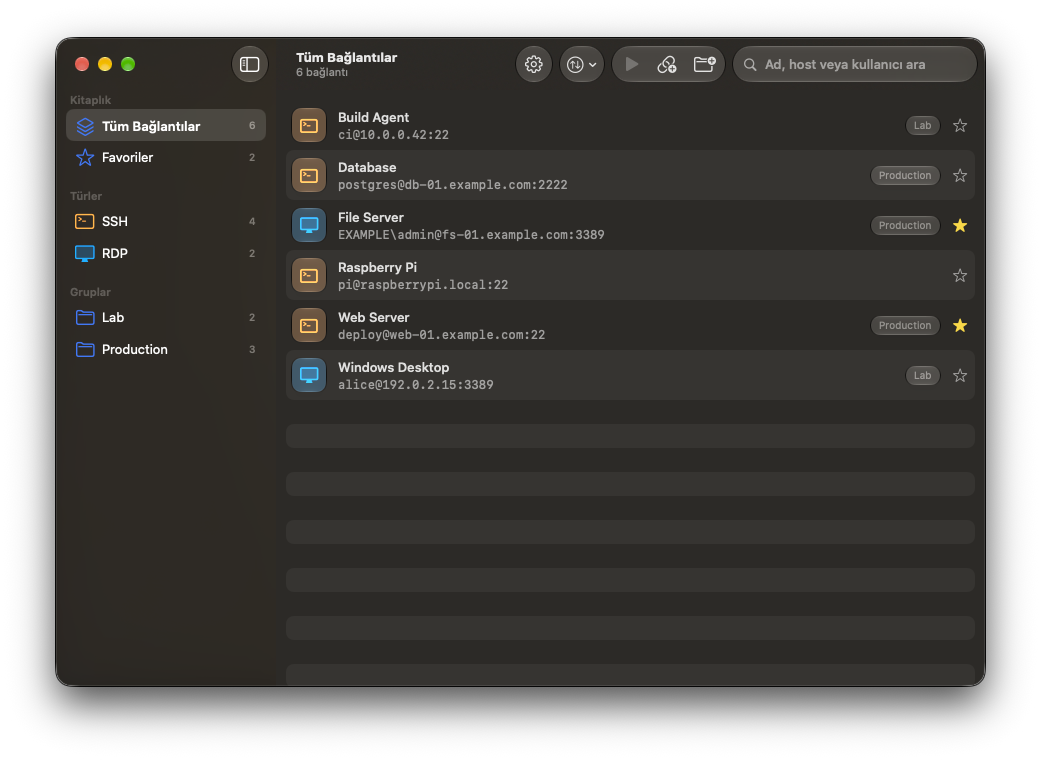
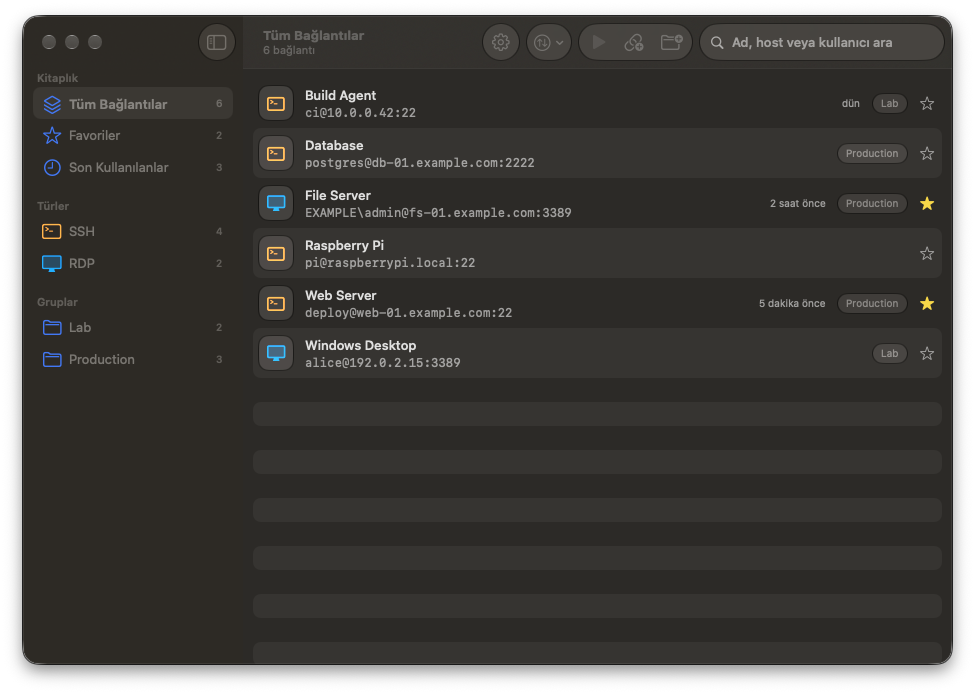
feat: add recent connections
- Connection.lastConnectedAt is set after each successful launch.
- New "Recent" sidebar item lists the 10 most recently opened
  connections, newest first.
- Rows show when the connection was last opened ("2 hours ago"),
  refreshed every minute, with the exact time as a tooltip.
- Settings gets a "Clear History…" button that forgets the times without
  deleting connections.
- README feature list and screenshots updated.

Changed region(s): [[0.0, 0.0, 0.9846, 0.9986]]

diff --git a/CoreRemoteTests/RecentTests.swift b/CoreRemoteTests/RecentTests.swift
@@ -1,0 +1,58 @@
+import Foundation
+import SwiftData
+import Testing
+@testable import CoreRemote
+
+@MainActor
+struct RecentTests {
+    private func makeContext() throws -> ModelContext {
+        let container = try ModelContainer(
+            for: Connection.self, ConnectionGroup.self,
+            configurations: ModelConfiguration(isStoredInMemoryOnly: true)
+        )
+        return ModelContext(container)
+    }
+
+    @Test func recentIsNewestFirstAndSkipsNeverOpened() {
+        let old = Connection(name: "Old", host: "a", type: .ssh, username: "u")
+        let new = Connection(name: "New", host: "b", type: .ssh, username: "u")
+        let never = Connection(name: "Never", host: "c", type: .rdp, username: "u")
+        old.lastConnectedAt = Date(timeIntervalSince1970: 100)
+        new.lastConnectedAt = Date(timeIntervalSince1970: 200)
+
+        #expect(SidebarItem.recent.filter([never, old, new]).map(\.name) == ["New", "Old"])
+    }
+
+    @Test func recentIsLimited() {
+        let connections = (0..<15).map { index in
+            let connection = Connection(name: "C\(index)", host: "h", type: .ssh, username: "u")
+            connection.lastConnectedAt = Date(timeIntervalSince1970: Double(index))
+            return connection
+        }
+        let recent = SidebarItem.recent.filter(connections)
+        #expect(recent.count == SidebarItem.recentLimit)
+        #expect(recent.first?.name == "C14")
+    }
+
+    @Test func otherItemsKeepOrder() {
+        let a = Connection(name: "A", host: "a", type: .ssh, username: "u", isFavorite: true)
+        let b = Connection(name: "B", host: "b", type: .rdp, username: "u")
+        #expect(SidebarItem.favorites.filter([a, b]).map(\.name) == ["A"])
+        #expect(SidebarItem.type(.rdp).filter([a, b]).map(\.name) == ["B"])
+        #expect(SidebarItem.all.filter([a, b]).map(\.name) == ["A", "B"])
+    }
+
+    @Test func clearHistoryKeepsConnections() throws {
+        let context = try makeContext()
+        let connection = Connection(name: "A", host: "a", type: .ssh, username: "u")
+        connection.lastConnectedAt = .now
+        context.insert(connection)
+        try context.save()
+
+        try Connection.clearHistory(in: context)
+
+        let all = try context.fetch(FetchDescriptor<Connection>())
+        #expect(all.count == 1)
+        #expect(all.first?.lastConnectedAt == nil)
+    }
+}

diff --git a/CoreRemote/Views/SidebarView.swift b/CoreRemote/Views/SidebarView.swift
@@ -4,15 +4,28 @@ import SwiftUI
 enum SidebarItem: Hashable {
     case all
     case favorites
+    case recent
     case type(ConnectionType)
     case group(UUID)
 
-    func includes(_ connection: Connection) -> Bool {
+    static let recentLimit = 10
+
+    /// The connections this item shows, in display order. `connections` is expected sorted by name;
+    /// Recent re-sorts by last connection, newest first.
+    func filter(_ connections: [Connection]) -> [Connection] {
         switch self {
-        case .all: true
-        case .favorites: connection.isFavorite
-        case .type(let type): connection.type == type
-        case .group(let id): connection.group?.id == id
+        case .all: connections
+        case .favorites: connections.filter(\.isFavorite)
+        case .recent:
+            Array(
+                connections
+                    .compactMap { connection in connection.lastConnectedAt.map { (connection, $0) } }
+                    .sorted { $0.1 > $1.1 }
+                    .prefix(Self.recentLimit)
+                    .map(\.0)
+            )
+        case .type(let type): connections.filter { $0.type == type }
+        case .group(let id): connections.filter { $0.group?.id == id }
         }
     }
 }
@@ -30,6 +43,7 @@ struct SidebarView: View {
             Section("Library") {
                 row(.all, title: Text("All Connections"), symbol: "square.stack.3d.up")
                 row(.favorites, title: Text("Favorites"), symbol: "star")
+                row(.recent, title: Text("Recent"), symbol: "clock")
             }
 
             Section("Types") {
@@ -59,7 +73,7 @@ struct SidebarView: View {
             Image(systemName: symbol)
                 .foregroundStyle(tint ?? .accentColor)
         }
-        .badge(connections.count(where: item.includes))
+        .badge(item.filter(connections).count)
         .tag(item)
     }
 

diff --git a/CoreRemote/Views/SettingsView.swift b/CoreRemote/Views/SettingsView.swift
@@ -1,4 +1,5 @@
 import AppKit
+import SwiftData
 import SwiftUI
 
 struct SettingsView: View {
@@ -6,6 +7,12 @@ struct SettingsView: View {
     @AppStorage(WindowsApp.minimizeStorageKey) private var minimizesMainWindow = true
     @State private var isAccessibilityTrusted = WindowsAppWindowMinimizer.isTrusted
     @State private var installed: Set<RDPClient> = []
+    @State private var confirmsClearHistory = false
+
+    @Environment(\.modelContext) private var modelContext
+    @Query(filter: #Predicate<Connection> { $0.lastConnectedAt != nil }) private var recentConnections: [Connection]
+
+    private var hasHistory: Bool { !recentConnections.isEmpty }
 
     var body: some View {
         Form {
@@ -57,6 +64,22 @@ struct SettingsView: View {
                         .font(.caption)
                         .foregroundStyle(.secondary)
                 }
+            }
+
+            Section {
+                LabeledContent("Recent connections") {
+                    Button("Clear History…") { confirmsClearHistory = true }
+                        .disabled(!hasHistory)
+                }
+            } footer: {
+                Text("Removes the Recent list and last-connected times. Connections aren't deleted.")
+                    .font(.caption)
+                    .foregroundStyle(.secondary)
+            }
+        }
+        .confirmationDialog("Clear connection history?", isPresented: $confirmsClearHistory) {
+            Button("Clear History", role: .destructive) {
+                try? Connection.clearHistory(in: modelContext)
             }
         }
         .formStyle(.grouped)

diff --git a/CoreRemote/Models/Connection.swift b/CoreRemote/Models/Connection.swift
@@ -15,6 +15,8 @@ final class Connection {
     var ignoreCertificateErrors: Bool = false
     var isFavorite: Bool
     var createdAt: Date
+    /// When the connection was last opened; `nil` if never (or after clearing history).
+    var lastConnectedAt: Date?
     var group: ConnectionGroup?
 
     var type: ConnectionType {
@@ -64,6 +66,17 @@ final class Connection {
             keyFilePath: keyFilePath,
             ignoreCertificateErrors: ignoreCertificateErrors
         )
+    }
+}
+
+extension Connection {
+    /// Forgets when every connection was last opened.
+    static func clearHistory(in context: ModelContext) throws {
+        let descriptor = FetchDescriptor<Connection>(predicate: #Predicate { $0.lastConnectedAt != nil })
+        for connection in try context.fetch(descriptor) {
+            connection.lastConnectedAt = nil
+        }
+        try context.save()
     }
 }
 

diff --git a/CoreRemote/Views/ContentView.swift b/CoreRemote/Views/ContentView.swift
@@ -146,6 +146,8 @@ struct ContentView: View {
         Task {
             do {
                 try await launcher.connect(connection)
+                connection.lastConnectedAt = .now
+                try? modelContext.save()
             } catch LaunchError.clientMissing(let client) {
                 missingClient = client
             } catch {
@@ -167,6 +169,7 @@ struct ContentView: View {
         switch item {
         case .all: String(localized: "All Connections")
         case .favorites: String(localized: "Favorites")
+        case .recent: String(localized: "Recent")
         case .type(let type): type.title
         case .group(let id): groups.first { $0.id == id }?.name ?? String(localized: "Group")
         }

diff --git a/CoreRemote/Views/ConnectionRow.swift b/CoreRemote/Views/ConnectionRow.swift
@@ -20,6 +20,16 @@ struct ConnectionRow: View {
 
             Spacer(minLength: 8)
 
+            if let lastConnectedAt = connection.lastConnectedAt {
+                // Refreshes once a minute so "2 minutes ago" keeps counting.
+                TimelineView(.periodic(from: .now, by: 60)) { _ in
+                    Text(lastConnectedAt, format: .relative(presentation: .named))
+                }
+                .font(.caption)
+                .foregroundStyle(.secondary)
+                .help(lastConnectedAt.formatted(date: .abbreviated, time: .shortened))
+            }
+
             if let group = connection.group {
                 Text(group.name)
                     .font(.caption)

diff --git a/CoreRemote/Views/ConnectionListView.swift b/CoreRemote/Views/ConnectionListView.swift
@@ -19,8 +19,7 @@ struct ConnectionListView: View {
 
     private var connections: [Connection] {
         let query = searchText.trimmingCharacters(in: .whitespaces)
-        return allConnections.filter { connection in
-            guard filter.includes(connection) else { return false }
+        return filter.filter(allConnections).filter { connection in
             guard !query.isEmpty else { return true }
             return [connection.name, connection.host, connection.username, connection.group?.name ?? ""]
                 .contains { $0.localizedStandardContains(query) }

diff --git a/CoreRemote/App/DemoData.swift b/CoreRemote/App/DemoData.swift
@@ -41,6 +41,9 @@ enum DemoData {
             Connection(name: "Raspberry Pi", host: "raspberrypi.local", type: .ssh, username: "pi"),
         ]
         connections.forEach(context.insert)
+        connections[0].lastConnectedAt = .now.addingTimeInterval(-5 * 60)
+        connections[2].lastConnectedAt = .now.addingTimeInterval(-2 * 3600)
+        connections[3].lastConnectedAt = .now.addingTimeInterval(-26 * 3600)
         try? context.save()
     }
 }

diff --git a/CoreRemote/App/CoreRemoteApp.swift b/CoreRemote/App/CoreRemoteApp.swift
@@ -52,6 +52,7 @@ struct CoreRemoteApp: App {
         Settings {
             SettingsView()
         }
+        .modelContainer(container)
     }
 }
 

diff --git a/README.md b/README.md
@@ -11,6 +11,7 @@ macOS için sade bir SSH ve RDP bağlantı yöneticisi. Bağlantılarınızı ka
 - **SSH**: Bağlantı Terminal'de açılır. Kayıtlı şifre otomatik girilir; isteğe bağlı SSH anahtar dosyası seçilebilir.
 - **RDP**: Varsayılan istemci [FreeRDP](https://www.freerdp.com)'dir ve şifreyi doğrudan alır. İsterseniz Ayarlar'dan [Microsoft Windows App](https://apps.apple.com/app/id1295203466) seçilebilir.
 - **Gruplar ve favoriler**: Bağlantıları gruplara ayırın, sık kullandıklarınızı favorilere ekleyin, ad, host veya kullanıcıya göre arayın.
+- **Son Kullanılanlar**: En son açtığınız 10 bağlantı kenar çubuğunda listelenir; her satırda ne zaman bağlandığınız görünür. Geçmiş Ayarlar'dan temizlenebilir.
 - **Yedekleme**: Bağlantılarınızı `.coreremote` dosyasına dışa aktarın, başka bir Mac'e içe aktarın. Şifreler yalnızca parolayla şifrelenmiş yedeğe eklenir.
 - **Liquid Glass** arayüzü, Türkçe ve İngilizce dil desteği.
 

diff --git a/README.en.md b/README.en.md
@@ -11,6 +11,7 @@ A simple SSH and RDP connection manager for macOS. Save your connections and ope
 - **SSH**: Connections open in Terminal. A saved password is entered for you; an SSH key file can be chosen per connection.
 - **RDP**: The default client is [FreeRDP](https://www.freerdp.com), which receives the password directly. [Microsoft Windows App](https://apps.apple.com/app/id1295203466) can be chosen in Settings instead.
 - **Groups and favorites**: Sort connections into groups, mark the ones you use most, and search by name, host or user.
+- **Recent**: The 10 connections you opened last are listed in the sidebar, and each row shows when you last connected. History can be cleared in Settings.
 - **Backup**: Export your connections to a `.coreremote` file and import them on another Mac. Passwords are only included in passphrase-encrypted backups.
 - **Liquid Glass** interface, in English and Turkish.
 
